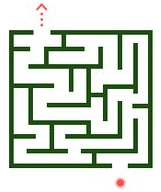
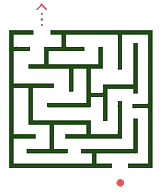
upd

diff --git a/index.html b/index.html
@@ -22,7 +22,7 @@
         margin-top: 50px;
       "
     >
-      <img style="width: 40%; float: left" src="./img/labirintas2.png" alt="" />
+      <img style="width: 40%; float: left" src="./img/labirintas.png" alt="" />
       <div style="width: 50%; float: left; margin-left: 10%">
         <h1 style="font-size: 170px; margin: 0; color: green">404</h1>
         <p style="font-size: 24px; line-height: 1.2em; color: green">
